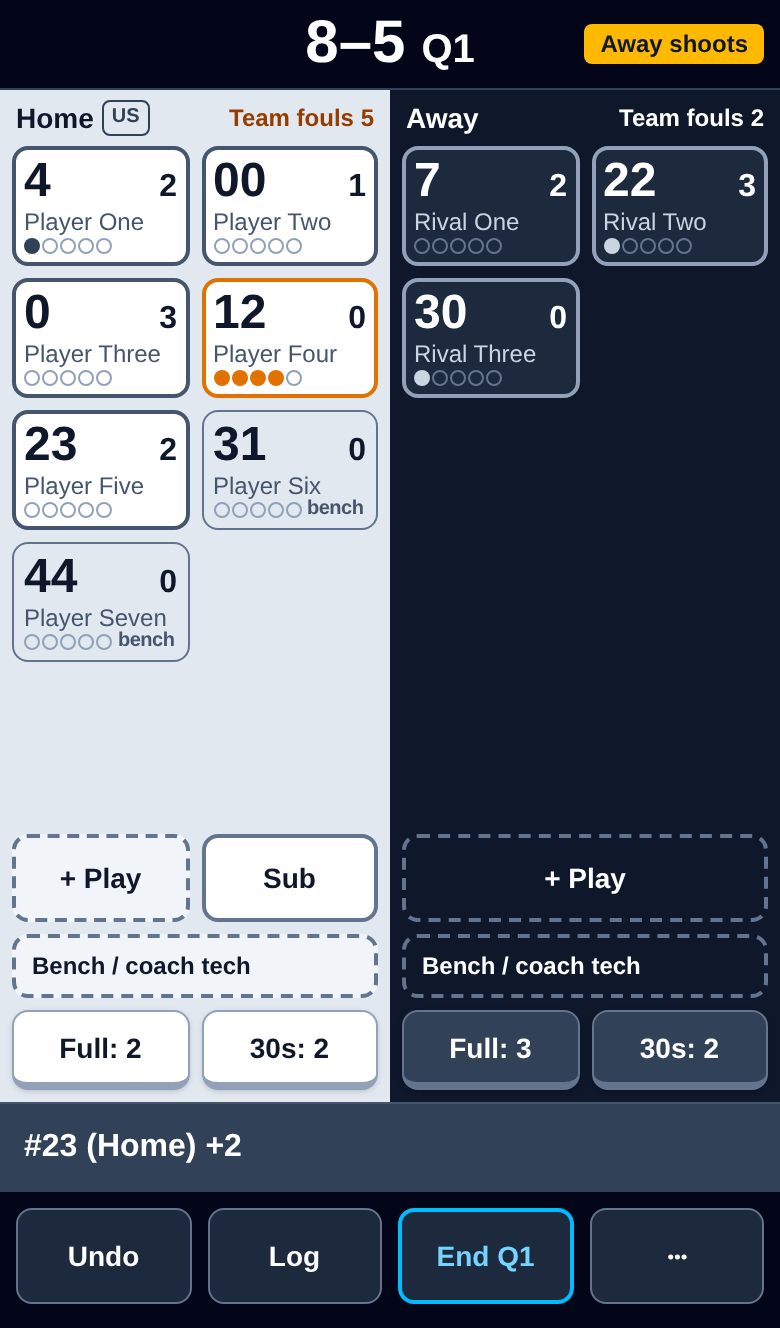
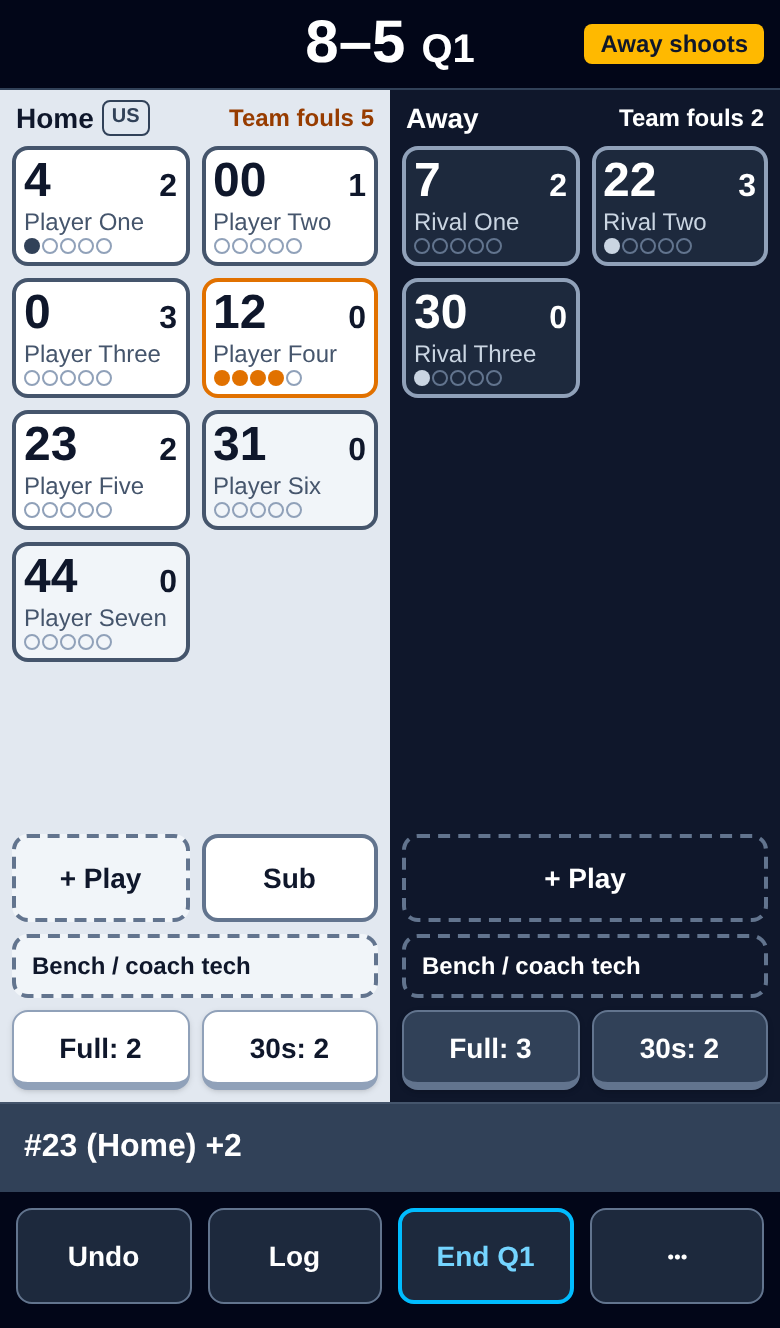
Release v0.10.0

diff --git a/CHANGELOG.md b/CHANGELOG.md
@@ -5,6 +5,8 @@ All notable changes to Bench Book are listed here, in the
 
 ## [Unreleased]
 
+## [0.10.0] - 2026-11-19
+
 - Cards look the same whether a player is on the floor or the bench: the bench tag, the amber Sub · 6 on and "now on the floor" are gone. Cards after the top five are a shade grayer (Home) or darker (Away).
 - A sub swaps the two cards instead of regrouping the half: the incoming player takes the outgoing player's slot. That includes a forgotten sub: when a bench player came on by making a play and the scorer then picks who went out, the player who came on takes that slot.
 - Final offers a Usage CSV: taps, plays, undos, redos, fixes and late adds for the game, with no names.
